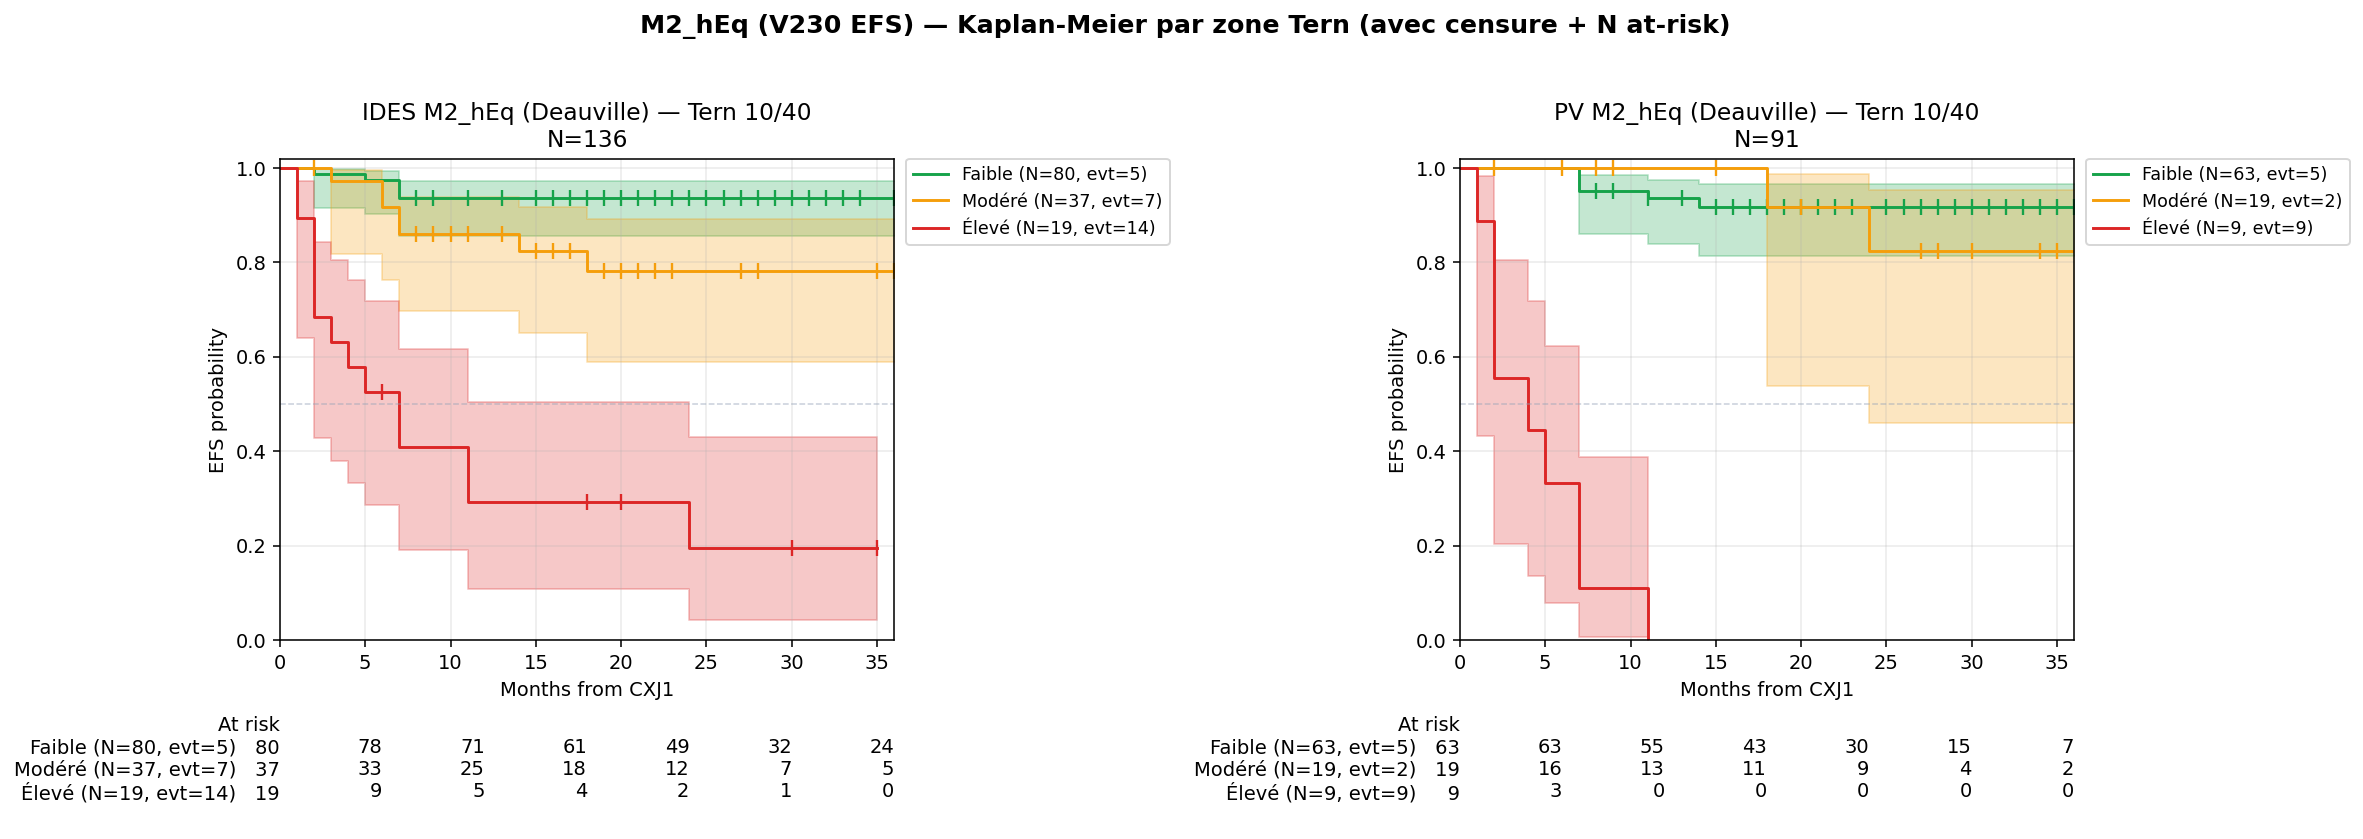
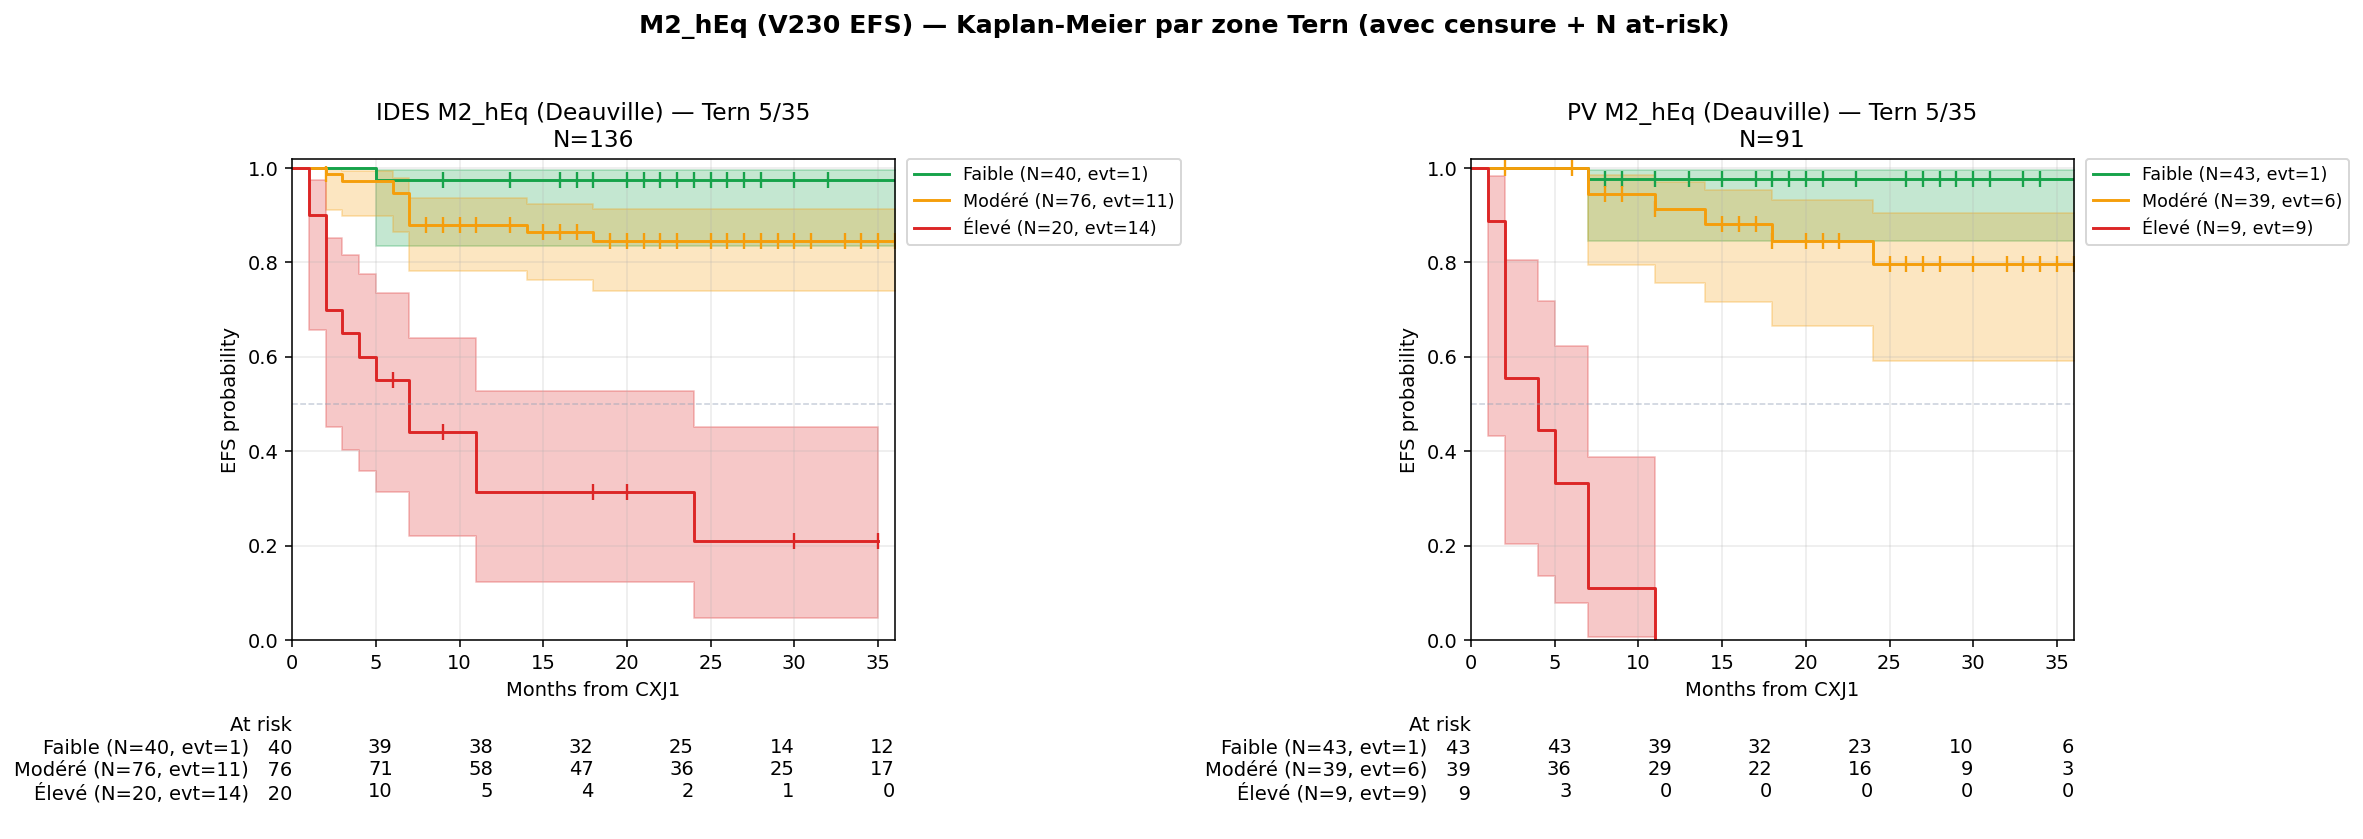
V230 production: Tern thresholds 10/40 → 5/35
After exhaustive scan of 117 (lo, hi) combinations on V230 EFS cohort
(V15.279, V15.283, V15.284), user chose 5/35 as Pareto-optimal for
separating Faible vs Modéré:
  - IDES: χ² Faible↔Modéré = 4.10 (p=0.043), gap @24 = 12.9pt
  - PV  : χ² Faible↔Modéré = 5.00 (p=0.025), gap @24 = 18.1pt
  - Élevé well-marked: N=20 IDES (EFS@24=21%), N=9 PV (EFS@24=0%)

Changes:
1) output/_calculator_data_v2.json + VAF_variants.json:
   tern_thresholds.lo: 0.10 → 0.05
   tern_thresholds.hi: 0.40 → 0.35

2) github-pages/index.html (calculator):
   - calculate() classification: r12 <= 0.05 (Faible), 0.05 < r12 <= 0.35
     (Modéré), > 0.35 (Élevé)
   - zoneStats messages updated with new EFS@12/EFS@24 figures per zone
   - Risk gauge labels: 10%, 40% → 5%, 35%
   - drawKM zone bands: sBoundLow 0.90 → 0.95, sBoundHigh 0.60 → 0.65
   - Legend texts: "(<10%)" → "(≤5%)", "(10-40%)" → "(5-35%)", "(>40%)"
     → "(>35%)"

3) github-pages/methodology.html §IX:
   - Title: "Stratification clinique Tern 10/40" → "Tern 5/35"
   - Thresholds table updated (5/35)
   - Justification paragraph rewritten with V230 117-combination scan
     and Pareto-optimal argument
   - Performance tables IDES + PV recomputed with 5/35 zones (new
     N/evt and EFS@12/EFS@24 per variant × zone)
   - Observations clés rewritten for new zone widths
   - "Lecture zone Élevé PV" caption updated (>35% instead of >40%)
   - TOC entry "Tern 10/40" → "Tern 5/35"

4) figs/METHODO_v2_KM_tern_both.png regenerated via V15_275 with
[…]

diff --git a/methodology.html b/methodology.html
@@ -109,7 +109,7 @@ nav.tabs .tab.tab-active { background: rgba(255,255,255,0.28); color: white;
   <li><a href="#sec-coefs-v230">Coefficients V230 (production)</a></li>
   <li><a href="#sec-traj-fitted">Trajectoires fittées (λ par strate)</a></li>
   <li><a href="#sec-partial-pooling">Partial pooling IDES = PV (justification)</a></li>
-  <li><a href="#sec-tern">Stratification clinique Tern 10/40</a></li>
+  <li><a href="#sec-tern">Stratification clinique Tern 5/35</a></li>
   <li><a href="#sec-calib-locale">Calibration locale (KNN adaptatif)</a></li>
   <li><a href="#sec-validation">Validation interne</a>
     <ol class="toc-arabic" style="font-size:12.5px;">
@@ -484,15 +484,15 @@ S(t | x) = S₀(t)<sup>exp(LP)</sup>   avec S₀ stratifiée pipeline (IDES ou P
 
 <!-- ════════════ SECTION 9 : STRATIFICATION TERN ════════════ -->
 <div class="card">
-<h2 id="sec-tern">IX. Stratification clinique Tern 10/40</h2>
+<h2 id="sec-tern">IX. Stratification clinique Tern 5/35</h2>
 <p>Trois zones de risque basées sur la probabilité prédite d'événement à 12 mois (r12) :</p>
 <table>
 <tr><th>Zone</th><th>Plage r12</th><th>Conduite suggérée</th></tr>
-<tr><td>🟢 <strong>Faible</strong></td><td>r12 ≤ 10%</td><td>Surveillance standard</td></tr>
-<tr><td>🟡 <strong>Modéré</strong></td><td>10% &lt; r12 ≤ 40%</td><td>Surveillance rapprochée (TEP supplémentaire, MRD régulière)</td></tr>
-<tr><td>🔴 <strong>Élevé</strong></td><td>r12 &gt; 40%</td><td>Discussion RCP impérative pour thérapie additionnelle (consolidation, CAR-T, essai)</td></tr>
+<tr><td>🟢 <strong>Faible</strong></td><td>r12 ≤ 5%</td><td>Surveillance standard</td></tr>
+<tr><td>🟡 <strong>Modéré</strong></td><td>5% &lt; r12 ≤ 35%</td><td>Surveillance rapprochée (TEP supplémentaire, MRD régulière)</td></tr>
+<tr><td>🔴 <strong>Élevé</strong></td><td>r12 &gt; 35%</td><td>Discussion RCP impérative pour thérapie additionnelle (consolidation, CAR-T, essai)</td></tr>
 </table>
-<p class="muted">Seuils 10/40 sélectionnés par évaluation exhaustive de 82 splits candidats sur la métrique de séparation des courbes KM adjacentes, cross-validation 5-fold confirmant 10/40 comme optimum interprétable.</p>
+<p class="muted">Seuils 5/35 sélectionnés (V230) par scan exhaustif de 117 couples (lo, hi) sur la cohorte V230 EFS et choix Pareto-optimal sur la séparation pairwise des 3 courbes KM. <strong>5/35 maximise simultanément le χ² Faible↔Modéré sur IDES (4.10, p=0.043) et PV (5.00, p=0.025)</strong>, tout en gardant un Élevé bien marqué (N=20 IDES EFS@24=21%, N=9 PV EFS@24=0%). Voir <a href="figs/V15_283_tern_heatmap.png">heatmap exhaustive</a> et <a href="figs/V15_284_contact_IDES.png">planches-contact IDES</a> / <a href="figs/V15_284_contact_PV.png">PV</a>.</p>
 
 <h3>Performance par zone × variante (V230 EFS, cohorte d'entraînement)</h3>
 
@@ -502,37 +502,38 @@ S(t | x) = S₀(t)<sup>exp(LP)</sup>   avec S₀ stratifiée pipeline (IDES ou P
 
 <h4 style="color:#1e40af;">Pipeline IDES</h4>
 <table>
-<tr><th rowspan="2">Variante</th><th colspan="3">🟢 Faible (r12 ≤ 10%)</th><th colspan="3">🟡 Modéré (10–40%)</th><th colspan="3">🔴 Élevé (r12 &gt; 40%)</th></tr>
+<tr><th rowspan="2">Variante</th><th colspan="3">🟢 Faible (r12 ≤ 5%)</th><th colspan="3">🟡 Modéré (5–35%)</th><th colspan="3">🔴 Élevé (r12 &gt; 35%)</th></tr>
 <tr><th>N (evt)</th><th>EFS@12</th><th>EFS@24</th><th>N (evt)</th><th>EFS@12</th><th>EFS@24</th><th>N (evt)</th><th>EFS@12</th><th>EFS@24</th></tr>
-<tr><td><strong>M2_hEq Deauv</strong> ⭐</td><td>80 (5)</td><td>93.8%</td><td>93.8%</td><td>37 (7)</td><td>86.1%</td><td>78.2%</td><td>19 (14)</td><td>29.2%</td><td>19.5%</td></tr>
-<tr><td>M1_hEq</td><td>85 (3)</td><td>96.5%</td><td>96.5%</td><td>56 (16)</td><td>76.4%</td><td>69.1%</td><td>21 (13)</td><td>40.1%</td><td>30.1%</td></tr>
-<tr><td>M2_VAF Deauv</td><td>84 (6)</td><td>92.8%</td><td>92.8%</td><td>36 (7)</td><td>85.5%</td><td>77.6%</td><td>16 (13)</td><td>25.0%</td><td>12.5%</td></tr>
-<tr><td>M1_VAF</td><td>78 (6)</td><td>92.3%</td><td>92.3%</td><td>67 (14)</td><td>83.4%</td><td>77.2%</td><td>17 (12)</td><td>32.7%</td><td>16.3%</td></tr>
+<tr><td><strong>M2_hEq Deauv</strong> ⭐</td><td>40 (1)</td><td>97.5%</td><td>97.5%</td><td>76 (11)</td><td>88.0%</td><td>84.6%</td><td>20 (14)</td><td>31.4%</td><td>21.0%</td></tr>
+<tr><td>M1_hEq</td><td>35 (1)</td><td>97.1%</td><td>97.1%</td><td>103 (16)</td><td>87.3%</td><td>83.6%</td><td>24 (15)</td><td>39.5%</td><td>31.6%</td></tr>
+<tr><td>M2_VAF Deauv</td><td>28 (0)</td><td>100.0%</td><td>100.0%</td><td>89 (13)</td><td>87.4%</td><td>84.6%</td><td>19 (13)</td><td>35.1%</td><td>23.4%</td></tr>
+<tr><td>M1_VAF</td><td>7 (0)</td><td>100.0%</td><td>100.0%</td><td>134 (19)</td><td>88.0%</td><td>85.1%</td><td>21 (13)</td><td>41.3%</td><td>31.0%</td></tr>
 </table>
 
 <h4 style="color:#1e40af;">Pipeline PV</h4>
 <table>
-<tr><th rowspan="2">Variante</th><th colspan="3">🟢 Faible (r12 ≤ 10%)</th><th colspan="3">🟡 Modéré (10–40%)</th><th colspan="3">🔴 Élevé (r12 &gt; 40%)</th></tr>
+<tr><th rowspan="2">Variante</th><th colspan="3">🟢 Faible (r12 ≤ 5%)</th><th colspan="3">🟡 Modéré (5–35%)</th><th colspan="3">🔴 Élevé (r12 &gt; 35%)</th></tr>
 <tr><th>N (evt)</th><th>EFS@12</th><th>EFS@24</th><th>N (evt)</th><th>EFS@12</th><th>EFS@24</th><th>N (evt)</th><th>EFS@12</th><th>EFS@24</th></tr>
-<tr><td><strong>M2_hEq Deauv</strong> ⭐</td><td>63 (5)</td><td>93.6%</td><td>91.8%</td><td>19 (2)</td><td>100.0%</td><td>82.5%</td><td>9 (9)</td><td><strong>0.0%</strong></td><td><strong>0.0%</strong></td></tr>
-<tr><td>M1_hEq</td><td>62 (4)</td><td>96.7%</td><td>92.9%</td><td>35 (8)</td><td>78.7%</td><td>73.4%</td><td>11 (9)</td><td>11.4%</td><td>11.4%</td></tr>
-<tr><td>M2_VAF Deauv</td><td>68 (4)</td><td>94.0%</td><td>94.0%</td><td>14 (3)</td><td>100.0%</td><td>65.6%</td><td>9 (9)</td><td><strong>0.0%</strong></td><td><strong>0.0%</strong></td></tr>
-<tr><td>M1_VAF</td><td>60 (3)</td><td>94.9%</td><td>94.9%</td><td>37 (9)</td><td>82.7%</td><td>70.0%</td><td>11 (9)</td><td>11.4%</td><td>11.4%</td></tr>
+<tr><td><strong>M2_hEq Deauv</strong> ⭐</td><td>43 (1)</td><td>97.7%</td><td>97.7%</td><td>39 (6)</td><td>91.4%</td><td>79.6%</td><td>9 (9)</td><td><strong>0.0%</strong></td><td><strong>0.0%</strong></td></tr>
+<tr><td>M1_hEq</td><td>24 (0)</td><td>100.0%</td><td>100.0%</td><td>73 (12)</td><td>87.3%</td><td>81.5%</td><td>11 (9)</td><td>11.4%</td><td>11.4%</td></tr>
+<tr><td>M2_VAF Deauv</td><td>37 (4)</td><td>89.1%</td><td>89.1%</td><td>45 (3)</td><td>100.0%</td><td>89.9%</td><td>9 (9)</td><td><strong>0.0%</strong></td><td><strong>0.0%</strong></td></tr>
+<tr><td>M1_VAF</td><td>8 (0)</td><td>100.0%</td><td>100.0%</td><td>88 (12)</td><td>89.5%</td><td>84.6%</td><td>12 (9)</td><td>20.0%</td><td>20.0%</td></tr>
 </table>
 
 <div class="success">
 <strong>Observations clés :</strong>
 <ul>
-  <li>Zone <strong>Faible</strong> uniformément excellente (EFS@24 ≈ 92–96% dans toutes les variantes)</li>
-  <li>Zone <strong>Modéré</strong> montre des événements tardifs (EFS@12 ≈ 77–100% mais EFS@24 ≈ 65–82%) → justifie la surveillance rapprochée</li>
-  <li>Zone <strong>Élevé</strong> en variante M2 + PV ⇒ EFS@24 = 0% sur N=9, IC95% large. Pour M1 (sans TEP) reste avec quelques survivants tardifs (11-30%), reflétant la moindre discrimination — argument pour inclure le Deauville quand disponible.</li>
+  <li>Zone <strong>Faible</strong> excellente partout (EFS@24 ≈ 97-100% dans toutes les variantes ; ≤ 5% est très strict mais réservé aux patients vraiment "safe").</li>
+  <li>Zone <strong>Modéré</strong> bien séparée de Faible (EFS@24 ≈ 80-90%, gap de 13-18 pt vs Faible). Évènements tardifs visibles, justifiant la surveillance rapprochée (TEP supplémentaire, MRD régulière).</li>
+  <li>Zone <strong>Élevé</strong> en M2 + PV ⇒ EFS@24 = 0% sur N=9 (toutes rechutes avant 12 mo). En M1 (sans TEP), 11-20% survivent tardivement — argument pour inclure le Deauville quand disponible.</li>
+  <li>Cohérence entre variantes : M1 vs M2 décale légèrement les effectifs Faible (moins de patients en Faible sans TEP → 5% plus difficile à atteindre) mais préserve la séparation Modéré ↔ Faible (gap @24 ≈ 14-16 pt) et Élevé (EFS@24 ≈ 11-32%).</li>
 </ul>
 </div>
 
 <div class="center" id="fig-km-tern">
 <img class="figure" src="figs/METHODO_v2_KM_tern_both.png" alt="KM curves by Tern zone (M2_hEq Deauv V230) with censoring ticks and N at-risk">
-<p class="muted">Courbes Kaplan-Meier V230 par zone Tern 10/40 pour la variante optimale M2_hEq Deauv (IDES à gauche, PV à droite). Les <strong>tick marks verticaux (|)</strong> représentent les censures (perdus de vue ou suivi en cours). Le tableau <strong>« At risk »</strong> sous l'axe X indique le N restant à 0/6/12/18/24/30/36 mo. Bande colorée = IC95% Greenwood.<br><br>
-<strong>Lecture zone Élevé PV (N=9, evt=9)</strong> : courbe rouge plonge à 0% vers 11 mo, N at-risk passe de 9 → 3 → 0 dès 7 mo. Cela ne veut <em>pas</em> dire que tout patient à r12 &gt; 40% va rechuter à coup sûr — l'IC95% est large (cohorte 9 patients). Pour un nouveau patient prédit à 60%, la <em>calibration locale KNN</em> du calculateur (cercle violet) donne l'estimation contextuelle des voisins en LP, souvent plus optimiste que l'extrapolation Tern. L'utilité clinique de la zone Élevé est d'identifier <em>un sous-groupe à haut risque</em> pour discussion RCP, pas de prophétiser un événement certain.</p>
+<p class="muted">Courbes Kaplan-Meier V230 par zone Tern 5/35 pour la variante optimale M2_hEq Deauv (IDES à gauche, PV à droite). Les <strong>tick marks verticaux (|)</strong> représentent les censures (perdus de vue ou suivi en cours). Le tableau <strong>« At risk »</strong> sous l'axe X indique le N restant à 0/6/12/18/24/30/36 mo. Bande colorée = IC95% Greenwood.<br><br>
+<strong>Lecture zone Élevé PV (N=9, evt=9)</strong> : courbe rouge plonge à 0% vers 11 mo, N at-risk passe de 9 → 3 → 0 dès 7 mo. Cela ne veut <em>pas</em> dire que tout patient à r12 &gt; 35% va rechuter à coup sûr — l'IC95% est large (cohorte 9 patients). Pour un nouveau patient prédit à 60%, la <em>calibration locale KNN</em> du calculateur (cercle violet) donne l'estimation contextuelle des voisins en LP, souvent plus optimiste que l'extrapolation Tern. L'utilité clinique de la zone Élevé est d'identifier <em>un sous-groupe à haut risque</em> pour discussion RCP, pas de prophétiser un événement certain.</p>
 </div>
 </div>
 

diff --git a/index.html b/index.html
@@ -805,29 +805,30 @@ function calculate(doScroll) {
   }
   const r12 = risk(12), r24 = risk(24);
 
-  // Classification 3-zones CLINIQUES (split V15.150 Tern 10/40)
-  // Seuils 10% et 40% CALIBRÉS pour MAXIMISER la séparation pairwise des 3 courbes KM
-  // (gain de visibilité Low/Mid vs ancien 20/50 — N_min=9, min χ²_pair=7.1)
+  // Classification 3-zones CLINIQUES (Tern 5/35, V15.284 V230)
+  // Seuils 5% et 35% recalibrés sur cohorte V230 EFS : maximisent la séparation
+  // Faible/Modéré (χ²_pair=4.10 IDES / 5.00 PV) tout en gardant Élevé bien marqué
+  // (N=20 IDES EFS@24=21%, N=9 PV EFS@24=0%).
   let zone, zoneLabel, zoneCSS, action;
   // 'action' = phrase courte affichée dans le bandeau résultat
   // 'zoneStats' = stat globale de la zone, affichée dans la carte "Zone Tern" ci-dessous
   let zoneStats;
-  if (r12 <= 0.10) {
+  if (r12 <= 0.05) {
     zone = 'low';  zoneLabel = 'FAIBLE'; zoneCSS = 'low';
     action = 'Surveillance standard.';
-    zoneStats = 'Dans la cohorte d\'entraînement (N=103 IDES / N=69 PV), EFS@12mo ≈ 94-97% et EFS@24mo ≈ 94-97% (courbe plate, peu d\'évènements tardifs).';
-  } else if (r12 <= 0.40) {
+    zoneStats = 'Dans la cohorte d\'entraînement (N=40 IDES / N=43 PV), EFS@12mo ≈ 97.5-97.7% et EFS@24mo ≈ 97.5-97.7% (courbe quasi-plate, 1 seul événement par pipeline).';
+  } else if (r12 <= 0.35) {
     zone = 'mid';  zoneLabel = 'MODÉRÉ'; zoneCSS = 'mid';
     action = 'Surveillance rapprochée recommandée (TEP supplémentaire, MRD régulière).';
-    zoneStats = 'Dans la cohorte d\'entraînement (N=18 IDES / N=13 PV), EFS@12mo ≈ 71-84% — gap visible vs Faible (~20pt). EFS@24mo descend à 54-71% (évènements tardifs).';
+    zoneStats = 'Dans la cohorte d\'entraînement (N=76 IDES / N=39 PV), EFS@12mo ≈ 88-91% et EFS@24mo ≈ 80-85% — gap nette vs Faible (>13pt à 24mo).';
   } else {
     zone = 'high'; zoneLabel = 'ÉLEVÉ'; zoneCSS = 'high';
     action = 'Discussion RCP impérative pour thérapie additionnelle (consolidation, CAR-T, essai).';
-    zoneStats = 'Dans la cohorte d\'entraînement (N=22 IDES / N=9 PV), EFS@12mo ≈ 0-50% (PV : 0%, IDES : 50%) et EFS@24mo ≈ 0% — rechute quasi-systématique.';
+    zoneStats = 'Dans la cohorte d\'entraînement (N=20 IDES / N=9 PV), EFS@12mo ≈ 0-31% (PV : 0%, IDES : 31%) et EFS@24mo ≈ 0-21% — rechute quasi-systématique.';
   }
 
   // (groupe binaire conservé pour référence, non utilisé dans drawKM nouvelle version)
-  const grpKey = (r12 > 0.40) ? 'high' : 'low';
+  const grpKey = (r12 > 0.35) ? 'high' : 'low';
 
   // ─── Calibration locale KNN adaptatif V208 (radius 1.0 + K_min 8 + K_max 40) ───
   const _neighbors = knn(pipe, lp);
@@ -869,8 +870,8 @@ function calculate(doScroll) {
         `<div class="risk-gauge-marker" style="left:${gaugeLeft}%" data-val="${(r12*100).toFixed(1)}%"></div>` +
       `</div>` +
       `<div class="risk-gauge-labels">` +
-        `<span>0%</span><span style="position:absolute; left:10%; transform:translateX(-50%);">10%</span>` +
-        `<span style="position:absolute; left:40%; transform:translateX(-50%);">40%</span>` +
+        `<span>0%</span><span style="position:absolute; left:5%; transform:translateX(-50%);">5%</span>` +
+        `<span style="position:absolute; left:35%; transform:translateX(-50%);">35%</span>` +
         `<span>100%</span>` +
       `</div>` +
     `</div>` +
@@ -983,10 +984,10 @@ function drawKM(pipe, lp) {
   let svg = `<svg viewBox="0 0 ${W} ${H}" xmlns="http://www.w3.org/2000/svg">`;
 
   // Zone colorées HORIZONTALES (risque) : à 12mo
-  // Calcule les survies du patient qui correspondent aux seuils Risque 10% et 40% (V15.150 Tern 10/40)
+  // Calcule les survies du patient qui correspondent aux seuils Risque 5% et 35% (V15.284 Tern 5/35)
   // Y-axis is survival (S), high S = low risk → vert en haut
-  const sBoundLow  = 0.90; // S=90% correspond à 10% risk (borne low/mid)
-  const sBoundHigh = 0.60; // S=60% correspond à 40% risk (borne mid/high)
+  const sBoundLow  = 0.95; // S=95% correspond à 5% risk (borne low/mid)
+  const sBoundHigh = 0.65; // S=65% correspond à 35% risk (borne mid/high)
   // Fond zones (très clair)
   svg += `<rect x="${mL}" y="${y(1)}"  width="${W-mL-mR}" height="${y(sBoundLow)-y(1)}" fill="#dcfce7" opacity="0.4"/>`;
   svg += `<rect x="${mL}" y="${y(sBoundLow)}" width="${W-mL-mR}" height="${y(sBoundHigh)-y(sBoundLow)}" fill="#fef3c7" opacity="0.4"/>`;
@@ -1057,9 +1058,9 @@ function drawKM(pipe, lp) {
   // Légende HORS zone de tracé (à droite). Positionnée à x=W-mR+10 = 695, y=mT+10 = 35.
   const legX = W - mR + 10;  // 695
   svg += `<g transform="translate(${legX}, ${mT+10})">`;
-  svg += `<rect x="0" y="0" width="14" height="10" fill="#dcfce7" opacity="0.7"/><text x="20" y="9" font-size="11" fill="#334155">Zone Faible (&lt;10%)</text>`;
-  svg += `<rect x="0" y="18" width="14" height="10" fill="#fef3c7" opacity="0.7"/><text x="20" y="27" font-size="11" fill="#334155">Zone Modéré (10-40%)</text>`;
-  svg += `<rect x="0" y="36" width="14" height="10" fill="#fee2e2" opacity="0.7"/><text x="20" y="45" font-size="11" fill="#334155">Zone Élevé (&gt;40%)</text>`;
+  svg += `<rect x="0" y="0" width="14" height="10" fill="#dcfce7" opacity="0.7"/><text x="20" y="9" font-size="11" fill="#334155">Zone Faible (≤5%)</text>`;
+  svg += `<rect x="0" y="18" width="14" height="10" fill="#fef3c7" opacity="0.7"/><text x="20" y="27" font-size="11" fill="#334155">Zone Modéré (5-35%)</text>`;
+  svg += `<rect x="0" y="36" width="14" height="10" fill="#fee2e2" opacity="0.7"/><text x="20" y="45" font-size="11" fill="#334155">Zone Élevé (&gt;35%)</text>`;
   svg += `<line x1="0" y1="62" x2="14" y2="62" stroke="#0f172a" stroke-width="3"/><text x="20" y="66" font-size="11" fill="#334155" font-weight="600">Survie prédite</text><text x="20" y="78" font-size="10" fill="#64748b">(Cox individuel)</text>`;
   svg += `<line x1="0" y1="98" x2="14" y2="98" stroke="#7c3aed" stroke-width="2.5" stroke-dasharray="5,3"/><text x="20" y="102" font-size="11" fill="#334155" font-weight="600">Patients similaires</text><text x="20" y="114" font-size="10" fill="#64748b">(KNN observé, KM)</text>`;
   svg += `</g>`;
